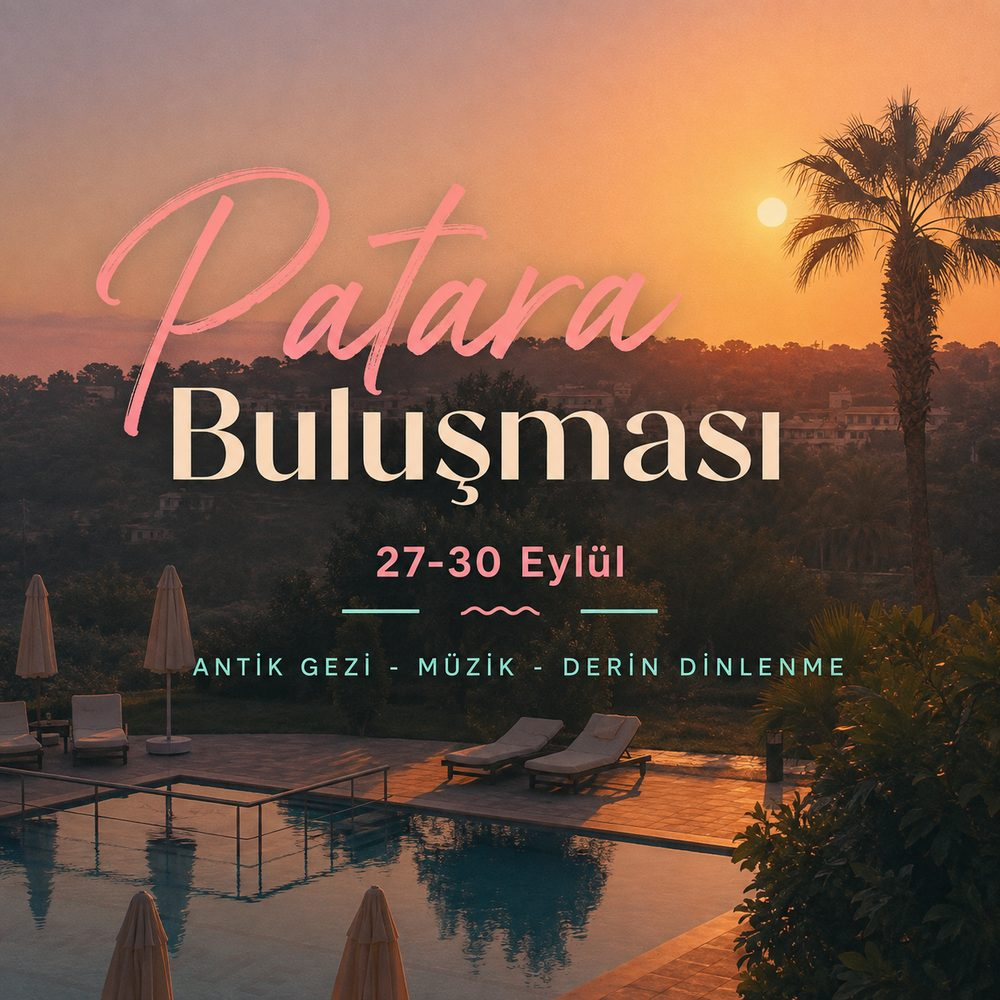
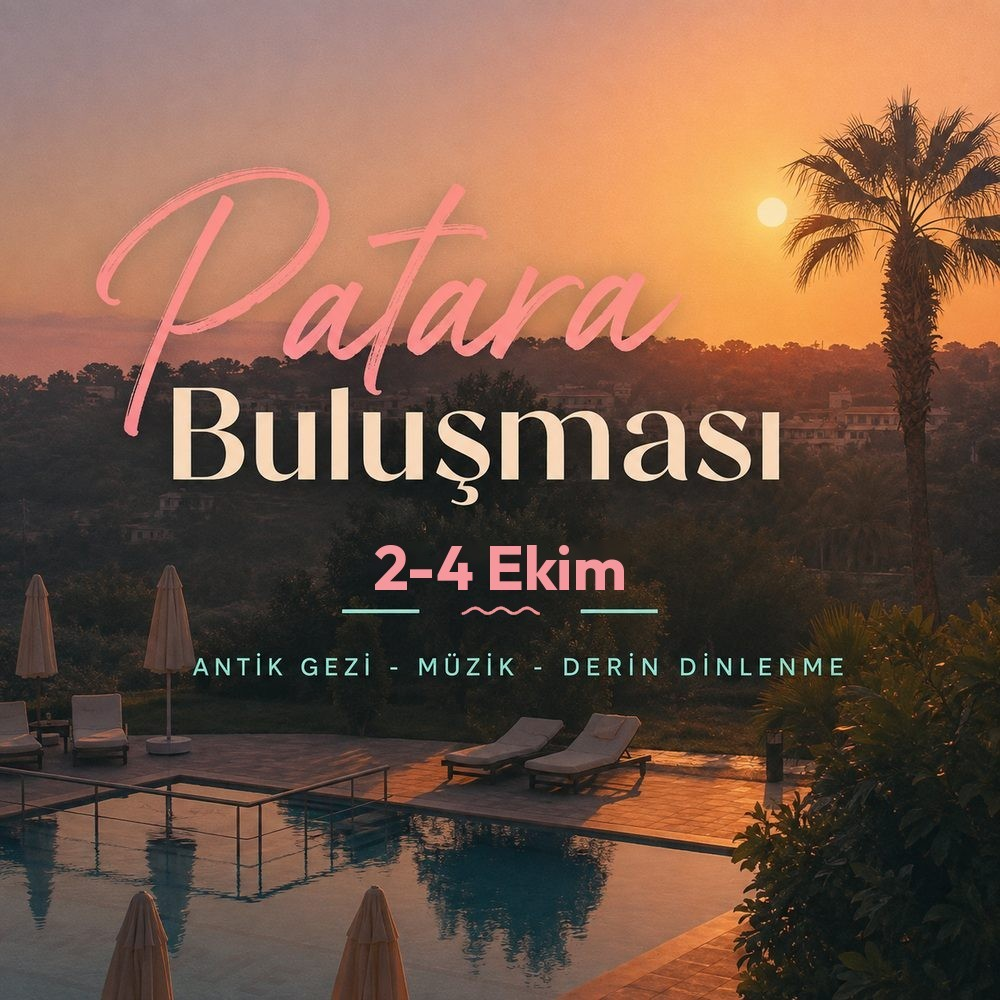
Update event dates: 27-30 Eylül → 2-4 Ekim (2 gece · 3 gün)
- Title, meta description, hero image alt text, "Buluşma Zamanı" heading,
  Giriş/Çıkış dates, pricing badge duration all updated to the new dates.
- Early-bird deadline ("10 Eylül'e kadar geçerlidir") is now in the past
  and unset — replaced with "Son tarih yakında duyurulacak" per request.
- Poster image (1.jpg): inpainted out the old "27-30 Eylül" text and
  redrew "2-4 Ekim" in matching bold pink type at the same position,
  restoring the teal/pink squiggle divider beneath it.

Claude-Session: https://claude.ai/code/session_01Sju3H3oX2r8naUsUFT7SXJ

Changed region(s): [[0.372, 0.527, 0.62, 0.62]]

diff --git a/index.html b/index.html
@@ -3,8 +3,8 @@
 <head>
 <meta charset="UTF-8">
 <meta name="viewport" content="width=device-width, initial-scale=1.0">
-<title>Patara Buluşması · kendiritminde 5.1 · 27–30 Eylül</title>
-<meta name="description" content="kendiritminde 5.1 · Patara Buluşması — 27-30 Eylül, Patara / Kaş. Üç gece dört günlük müzik, deniz, antik kent ve derin dinlenme buluşması.">
+<title>Patara Buluşması · kendiritminde 5.1 · 2–4 Ekim</title>
+<meta name="description" content="kendiritminde 5.1 · Patara Buluşması — 2-4 Ekim, Patara / Kaş. İki gece üç günlük müzik, deniz, antik kent ve derin dinlenme buluşması.">
 <link rel="icon" href="favicon.ico" sizes="16x16 32x32 48x48">
 <link rel="icon" type="image/png" href="favicon-48.png" sizes="48x48">
 <link rel="apple-touch-icon" href="favicon-180.png">
@@ -244,7 +244,7 @@ footer p{font-size:0.8rem;color:var(--mist);margin-top:0.6rem;opacity:0.8;}
 <!-- HERO -->
 <header class="hero" id="top">
   <div class="hero-badge">✦ kendiritminde 5.1 · yeni buluşma</div>
-  <div class="hero-poster"><img src="1.jpg" alt="Patara Buluşması · 27-30 Eylül · Antik Gezi · Müzik · Derin Dinlenme" loading="eager" fetchpriority="high"></div>
+  <div class="hero-poster"><img src="1.jpg" alt="Patara Buluşması · 2-4 Ekim · Antik Gezi · Müzik · Derin Dinlenme" loading="eager" fetchpriority="high"></div>
   <div class="loc">Patara · Kaş — Antalya</div>
   <a class="hero-cta" href="https://forms.gle/ZmvmhQrk2efSeeev9" target="_blank" rel="noopener noreferrer">Kayıt Ol →</a>
   <div class="scroll-cue">keşfet ↓</div>
@@ -327,7 +327,7 @@ footer p{font-size:0.8rem;color:var(--mist);margin-top:0.6rem;opacity:0.8;}
   <p class="lead">
     Patara'nın <span class="accent">denizi</span>, kum tepeleri, antik kenti ve gecenin sessizliği eşliğinde;
     birlikte müzik dinleyip, dans edip, derin dinlenip, keşfe çıkacağımız
-    <span class="accent">üç gece dört günlük</span> bir buluşma.
+    <span class="accent">iki gece üç günlük</span> bir buluşma.
   </p>
 </section>
 
@@ -423,16 +423,16 @@ footer p{font-size:0.8rem;color:var(--mist);margin-top:0.6rem;opacity:0.8;}
 <!-- BULUŞMA ZAMANI -->
 <section class="section">
   <div class="eyebrow">Buluşma Zamanı</div>
-  <h2 class="title">3 Gece · 4 Gün</h2>
+  <h2 class="title">2 Gece · 3 Gün</h2>
   <div class="infogrid">
     <div class="infobox">
       <h4>Giriş</h4>
-      <p class="big">27 Eylül</p>
+      <p class="big">2 Ekim</p>
       <p>Öğleden sonra yerleşme ve buluşma.</p>
     </div>
     <div class="infobox">
       <h4>Çıkış</h4>
-      <p class="big">30 Eylül</p>
+      <p class="big">4 Ekim</p>
       <p>Öğle saatlerine doğru vedalaşma.</p>
     </div>
     <div class="infobox">
@@ -447,7 +447,7 @@ footer p{font-size:0.8rem;color:var(--mist);margin-top:0.6rem;opacity:0.8;}
 <section class="section" id="kayit">
   <div class="eyebrow">Fiyatlar & Kayıt</div>
   <h2 class="title">Erken Kayıt Fiyatları</h2>
-  <div class="disc-badge"><b>%15 Erken Kayıt İndirimi</b> · 3 Gece · 4 Gün</div>
+  <div class="disc-badge"><b>%15 Erken Kayıt İndirimi</b> · 2 Gece · 3 Gün</div>
   <div class="price-grid">
     <div class="price-card">
       <div class="ptype">3 Kişilik Oda</div>
@@ -468,7 +468,7 @@ footer p{font-size:0.8rem;color:var(--mist);margin-top:0.6rem;opacity:0.8;}
       <div class="perken">29.750 ₺ <small>/ kişi</small></div>
     </div>
   </div>
-  <p class="price-note">Erken kayıt sınırlıdır ve <strong style="color:var(--pink-soft);">10 Eylül</strong>'e kadar geçerlidir. 🌿</p>
+  <p class="price-note">Erken kayıt sınırlıdır. <strong style="color:var(--pink-soft);">Son tarih yakında duyurulacak.</strong> 🌿</p>
   <div class="reg-cta">
     <a class="btn-reg big" href="https://forms.gle/ZmvmhQrk2efSeeev9" target="_blank" rel="noopener noreferrer">🌿 Kayıt Formunu Doldur →</a>
     <span class="fine">Formu inceledikten sonra ödeme ve konaklama detaylarını mail yoluyla iletiyoruz.</span>
